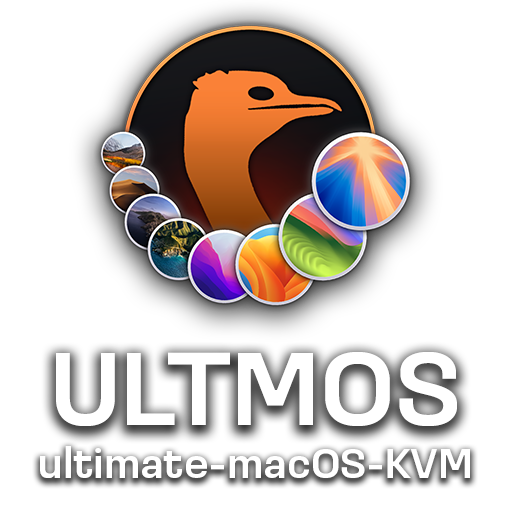
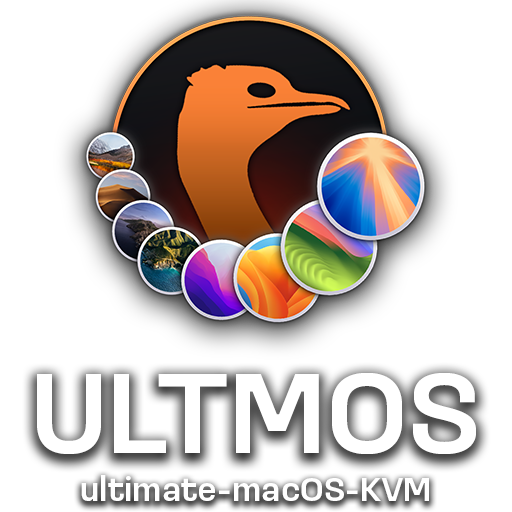
New proportions

diff --git a/README.md b/README.md
@@ -1,4 +1,4 @@
-<p align="center"><a href="https://coopydood.github.io/ultimate-macOS-KVM"><img src="https://github.com/Coopydood/ultimate-macOS-KVM/blob/dev/resources/images/ULTMOS.png?raw=true" alt="ultimate-macOS-KVM" width="240"/></a></p>
+<p align="center"><a href="https://coopydood.github.io/ultimate-macOS-KVM"><img src="https://github.com/Coopydood/ultimate-macOS-KVM/blob/dev/resources/images/bannerAlphaBasicPortrait.png?raw=true" alt="ultimate-macOS-KVM" width="240"/></a></p>
 
 <h3 align="center">v0.13.0</h3>
 
